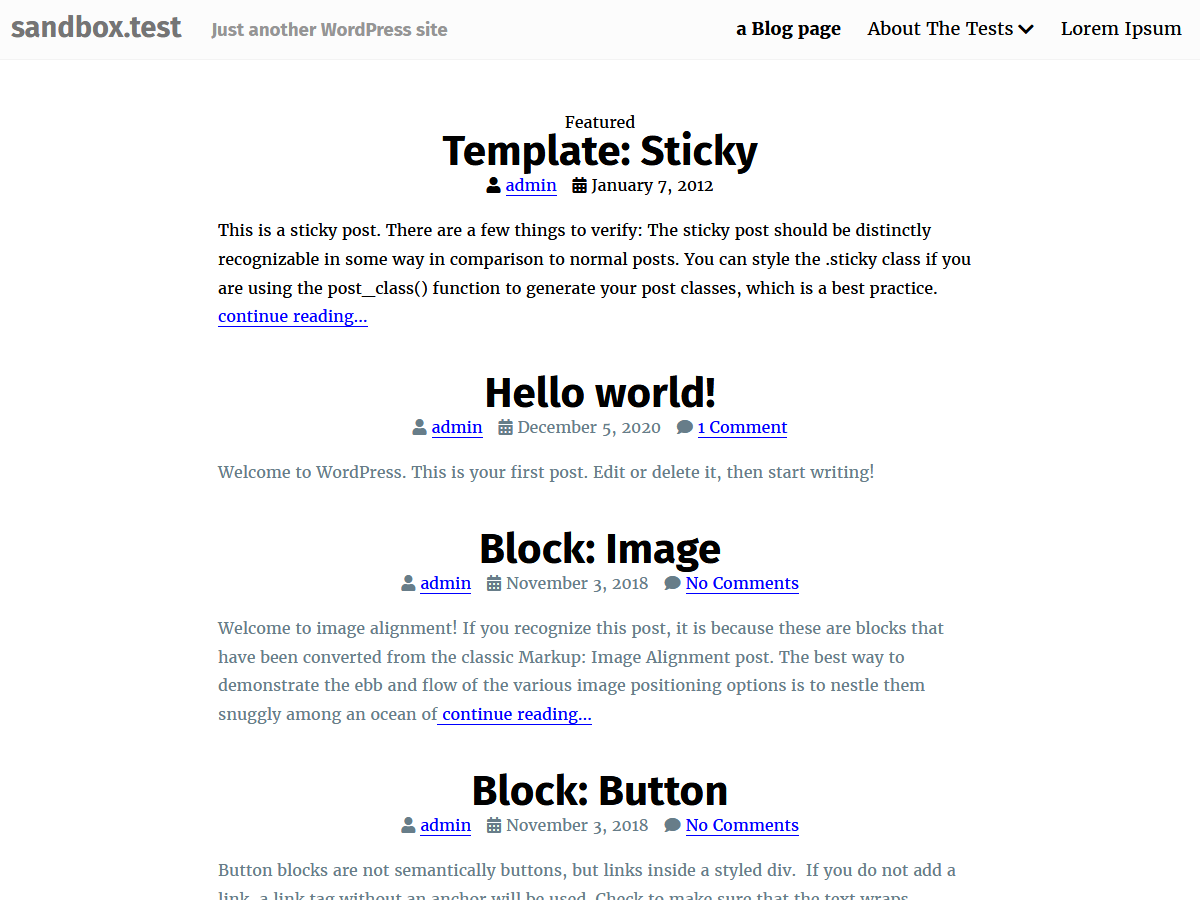
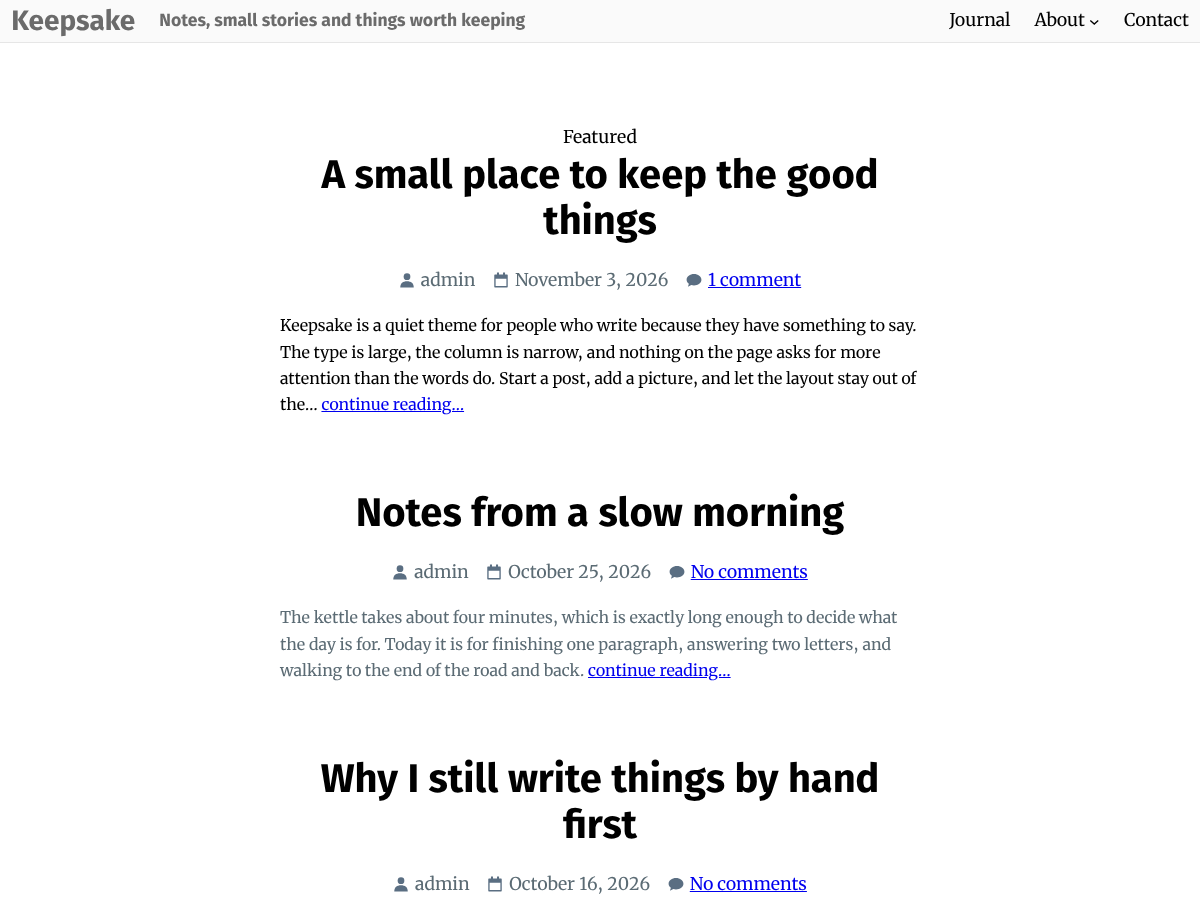
Add real theme screenshot and fix submenu chevron size
screenshot.png (1200x900) is now a capture of Keepsake rendered in
WordPress with sample posts written for the theme. The dropdown chevron
in the header no longer overrides core's size, so it sits level with the
menu text.

Claude-Session: https://claude.ai/code/session_01KUGMWzH9qgRscVLrerhpPh

diff --git a/style.css b/style.css
@@ -24,8 +24,8 @@ body { margin: 0; }
 .site-header { background: #fafafa; border-bottom: 1px solid #e6e6e6; }
 .site-header .wp-block-navigation .current-menu-item > a,
 .site-header .wp-block-navigation .current_page_item > a { font-weight: 700; }
-.site-header .wp-block-navigation__submenu-icon { margin-left: .2em; }
-.site-header .wp-block-navigation__submenu-icon svg { stroke-width: 2.5px; width: 1em; height: 1em; }
+.site-header .wp-block-navigation__submenu-icon { margin-left: .25em; }
+.site-header .wp-block-navigation__submenu-icon svg { stroke-width: 2px; }
 
 /* Main column */
 main.wp-block-group { padding: 3.5rem 1.5rem 1.5rem; }
